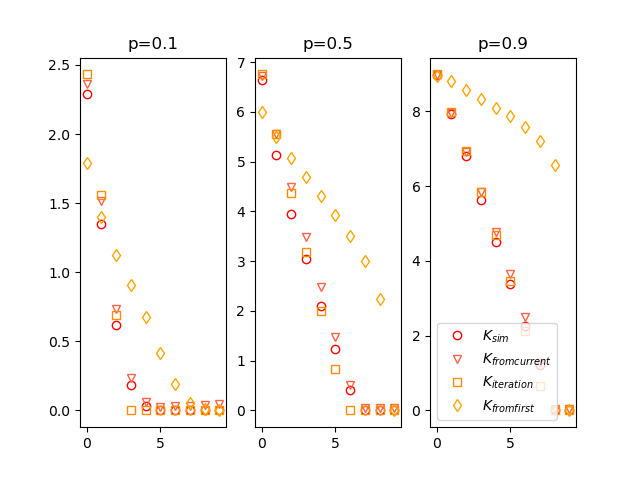
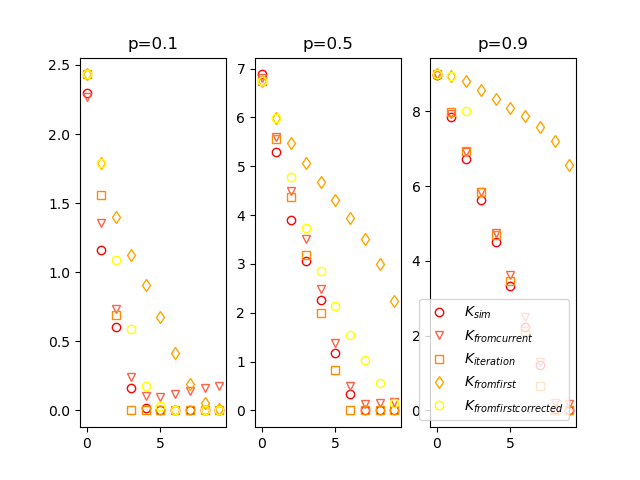
update test_average_degree

diff --git a/test_average_degree.py b/test_average_degree.py
@@ -70,18 +70,21 @@ def expectedNthLargestDegree(n, p, N):
 
 ################################################################################
 
-num_trials = 200
+num_trials = 50
 remove_nodes = 'attack'
 
 ################################################################################
 
-labels = [r'$c_{sim}$', r'$c_{epATA}$', r'$c_{sim+epATA}$', r'$K_{sim}$', r'$K_{from current}$', r'$K_{iteration}$', r'$K_{from first}$']
-colors = ['navy', 'mediumblue', 'lightblue', 'red', 'tomato', 'darkorange', 'orange']
+labels = [r'$c_{sim}$', r'$c_{epATA}$', r'$c_{sim+epATA}$', r'$K_{sim}$', 
+    r'$K_{from current}$', r'$K_{iteration}$', r'$K_{from first}$',
+    r'$K_{from first corrected}$']
+colors = ['navy', 'mediumblue', 'lightblue', 'red', 'tomato', 'darkorange', 
+          'orange', 'yellow']
 
 ################################################################################
 
-for n in [5,10,20]:
-    data_array = np.zeros((num_trials, 8, n), dtype=float)
+for n in [5, 10, 20]:
+    data_array = np.zeros((num_trials, 9, n), dtype=float)
     data_array[0] = np.arange(n)
 
     for ip, p in enumerate([0.1, 0.5, 0.9]):
@@ -120,6 +123,19 @@ for n in [5,10,20]:
                     # we calculate the EMD from the Nth largest degree in original network
                     if i <= n:
                         data_array[j, 7, i] = expectedNthLargestDegree(n,  p, i+1) 
+                    #if i > 0:
+                    #    data_array[j, 7, i] =- data_array[j, 7, :i-1]/n #n-1?
+
+                    # same as before but with a correction for subsequently lost edges
+                    p2 = p 
+                    if i > 0:
+                        print('p2 before',p2)
+                        print('to be added', data_array[j, 8, :(i-1)])
+                        print(n, binom(n,2), 1/binom(n,2)/2, np.sum(data_array[j, 8, :(i-1)])/binom(n,2)/2)
+                        p2 = p2 - np.nansum(data_array[j, 8, :(i-1)])/binom(n,2)/2
+                        print('p2',p2)
+                    data_array[j, 8, i] = expectedNthLargestDegree(n,  np.max([0,p2]), i+1) 
+
 
                     p_new = p_next
                     
@@ -145,7 +161,7 @@ for n in [5,10,20]:
         plt.title('p={}'.format(p))
         for l in range(4,len(data_array[0])): #range(1,len(data_array[0])):
             plt.plot(np.nanmean(data_array[:,l],axis=0), marker='ovsd'[l%4], fillstyle='none',
-                ls=['--','-'][l//4], lw=0, c=colors[l-1], label=labels[l-1])
+                ls=['--','-'][l>=4], lw=0, c=colors[l-1], label=labels[l-1])
         #print(np.nanmean(data_array, axis=0))
     plt.legend()
     plt.savefig('test_average_degree_n{}.png'.format(n))
